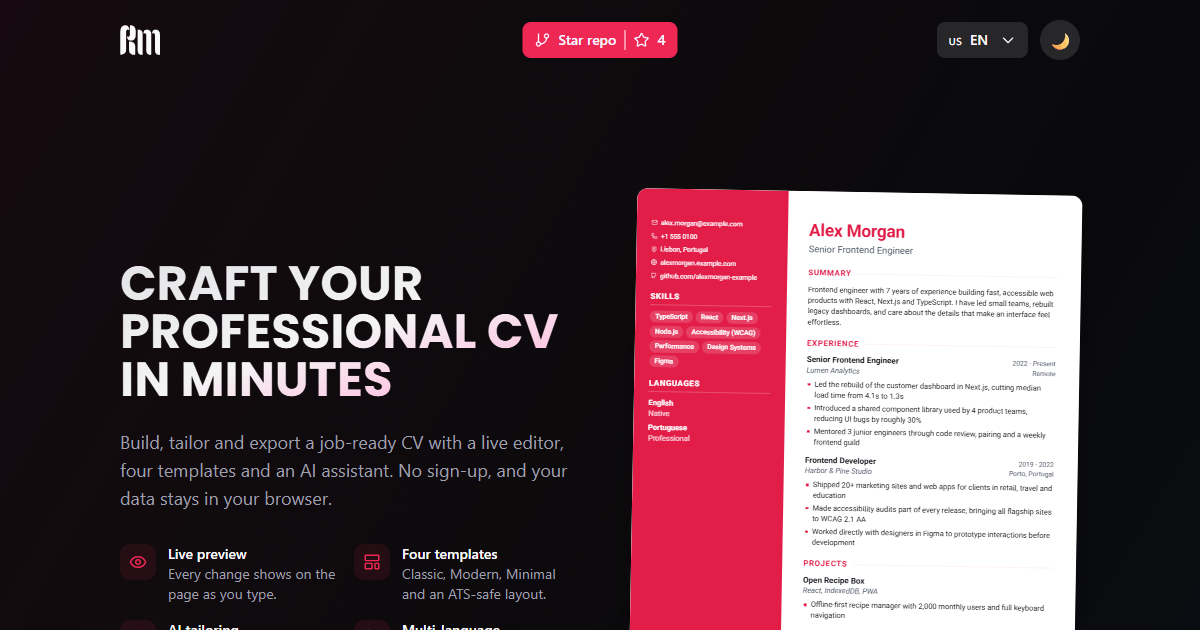
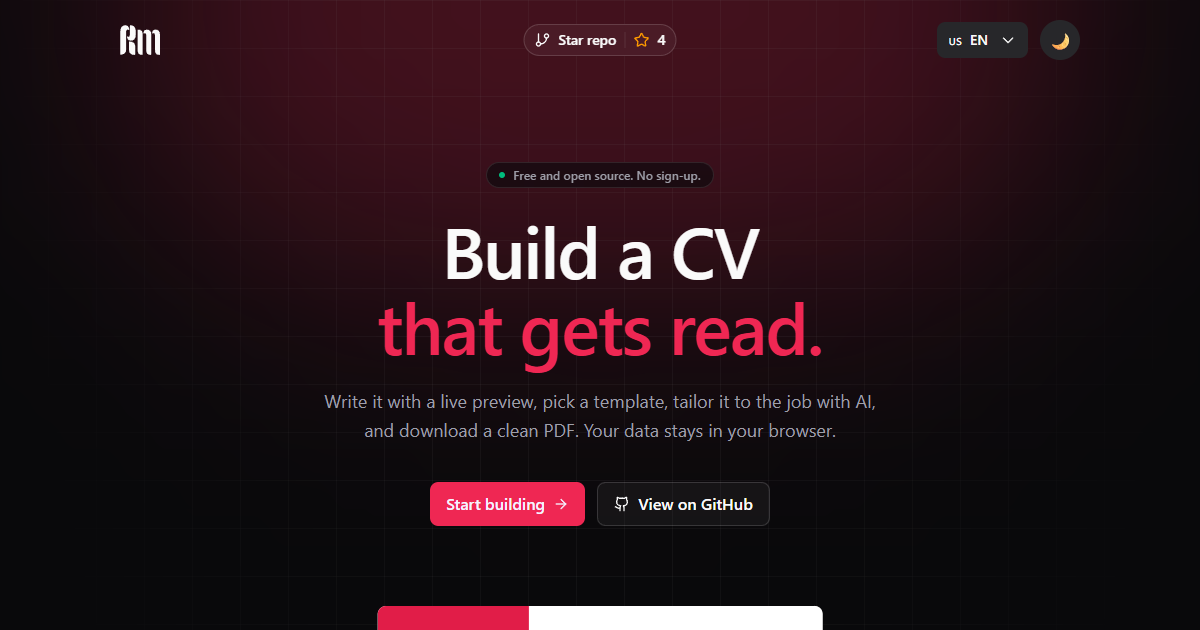
Redesign the landing page
- Centred hero with a short two-part headline instead of the uppercase
  gradient title, plus a GitHub button and a small badge line
- Fan of real Classic, Modern and Minimal documents as the hero image,
  clipped and faded, replacing the single tiny tilted preview
- Simple four-column feature row, soft glow and grid background
- Calmer outline "Star repo" button in the navbar
- Fix: CV sheets are at least one page tall on screen, so the Modern
  sidebar reaches the bottom of the page in the preview and hero

diff --git a/src/app/Landing.tsx b/src/app/Landing.tsx
@@ -1,47 +1,61 @@
 "use client";
 
 import React, { useMemo } from "react";
-import { motion, Variants } from "framer-motion";
-import { Poppins } from "next/font/google";
-import { Eye, Languages, LayoutTemplate, Sparkles } from "lucide-react";
+import { motion } from "framer-motion";
+import { ArrowRight, Eye, Github, Languages, LayoutTemplate, Sparkles } from "lucide-react";
 import { useLang } from "@/lib/lang";
 import translations from "@/lib/translations";
 import { Button } from "@/components/ui/button";
 import CVDocument from "@/components/cv-maker/document/CVDocument";
 import { sampleCV } from "@/lib/cv/defaults";
+import { CVData, TemplateId } from "@/types/cv";
+import { cn } from "@/lib/utils";
 
-const poppins = Poppins({
-	subsets: ["latin"],
-	weight: ["600", "700"],
-	variable: "--font-poppins",
-});
-
-const containerVariants: Variants = {
-	hidden: { opacity: 0 },
-	show: { opacity: 1, transition: { staggerChildren: 0.12, delayChildren: 0.1 } },
-};
-
-const itemVariants: Variants = {
-	hidden: { opacity: 0, y: 16 },
-	show: { opacity: 1, y: 0, transition: { duration: 0.5, ease: "easeOut" } },
-};
-
-// A4 at 96dpi, scaled down for the hero.
-const SHEET_W = 794;
+const SHEET_W = 794; // A4 at 96dpi
 const SHEET_H = 1123;
-const HERO_SCALE = 0.56;
+
+const variant = (template: TemplateId, accentColor: string): CVData => {
+	const cv = sampleCV();
+	cv.settings.template = template;
+	cv.settings.accentColor = accentColor;
+	return cv;
+};
+
+/** A real CVDocument, scaled down. `--s` is the scale, set per breakpoint by the caller. */
+function Sheet({ cv, className }: { cv: CVData; className?: string }) {
+	return (
+		<div
+			className={cn(
+				"overflow-hidden rounded-md bg-white shadow-[0_30px_80px_-20px_rgb(0_0_0/0.45)] ring-1 ring-black/10",
+				className,
+			)}
+			style={{
+				width: `calc(${SHEET_W}px * var(--s))`,
+				height: `calc(${SHEET_H}px * var(--s))`,
+			}}>
+			<div
+				className="pointer-events-none origin-top-left select-none"
+				style={{ width: SHEET_W, transform: "scale(var(--s))" }}
+				dir="ltr">
+				<CVDocument cv={cv} />
+			</div>
+		</div>
+	);
+}
 
 export default function LandingHero() {
 	const { lang } = useLang();
 	const t = translations[lang];
 	const isRtl = lang === "ar";
 
-	const demo = useMemo(() => {
-		const cv = sampleCV();
-		cv.settings.template = "modern";
-		cv.settings.accentColor = "#e11d48";
-		return cv;
-	}, []);
+	const sheets = useMemo(
+		() => ({
+			classic: variant("classic", "#2563eb"),
+			modern: variant("modern", "#e11d48"),
+			minimal: variant("minimal", "#0f766e"),
+		}),
+		[],
+	);
 
 	const features = [
 		{ icon: Eye, title: t.feature1Title, desc: t.feature1Desc },
@@ -53,65 +67,87 @@ export default function LandingHero() {
 	const start = () =>
 		document.getElementById("cvMaker")?.scrollIntoView({ behavior: "smooth", block: "start" });
 
+	const fadeUp = (delay: number) => ({
+		initial: { opacity: 0, y: 14 },
+		animate: { opacity: 1, y: 0 },
+		transition: { duration: 0.5, ease: "easeOut" as const, delay },
+	});
+
 	return (
-		<div className="pt-20 lg:pt-24" dir={isRtl ? "rtl" : "ltr"}>
-			<div className="container mx-auto px-6 py-16 lg:px-8 lg:py-24">
-				<div className="grid items-center gap-14 lg:grid-cols-2">
-					<motion.div
-						className="flex flex-col items-start"
-						variants={containerVariants}
-						initial="hidden"
-						animate="show">
-						<motion.h1
-							variants={itemVariants}
-							className={`${poppins.className} max-w-2xl bg-gradient-to-br from-zinc-900 via-indigo-800 to-pink-500 bg-clip-text text-4xl font-extrabold uppercase text-transparent drop-shadow-sm sm:text-5xl dark:from-zinc-200 dark:via-zinc-100 dark:to-pink-300`}>
-							{t.landingTitle}
-						</motion.h1>
+		<section className="relative isolate overflow-hidden" dir={isRtl ? "rtl" : "ltr"}>
+			{/* Soft glow and a faint grid behind the headline. */}
+			<div aria-hidden className="pointer-events-none absolute inset-0 -z-10">
+				<div className="absolute left-1/2 top-[-18rem] h-[36rem] w-[60rem] -translate-x-1/2 rounded-full bg-primary/20 blur-[120px] dark:bg-primary/25" />
+				<div className="absolute inset-0 bg-[linear-gradient(to_right,rgb(127_127_127/0.08)_1px,transparent_1px),linear-gradient(to_bottom,rgb(127_127_127/0.08)_1px,transparent_1px)] bg-[size:48px_48px] [mask-image:radial-gradient(ellipse_at_top,black_30%,transparent_70%)]" />
+			</div>
 
-						<motion.p variants={itemVariants} className="mt-6 max-w-xl text-lg text-muted-foreground">
-							{t.landingSubtitle}
-						</motion.p>
+			<div className="mx-auto max-w-6xl px-6 pt-32 sm:pt-40">
+				<div className="mx-auto max-w-3xl text-center">
+					<motion.p
+						{...fadeUp(0)}
+						className="mx-auto inline-flex items-center gap-2 rounded-full border bg-background/60 px-3 py-1 text-xs font-medium text-muted-foreground backdrop-blur">
+						<span className="size-1.5 rounded-full bg-emerald-500" />
+						{t.landingBadge}
+					</motion.p>
 
-						<motion.ul variants={containerVariants} className="mt-8 grid gap-4 sm:grid-cols-2">
-							{features.map(({ icon: Icon, title, desc }) => (
-								<motion.li key={title} variants={itemVariants} className="flex gap-3">
-									<span className="flex size-9 shrink-0 items-center justify-center rounded-lg bg-primary/10 text-primary">
-										<Icon className="size-4.5" />
-									</span>
-									<span>
-										<span className="block text-sm font-semibold">{title}</span>
-										<span className="block text-sm text-muted-foreground">{desc}</span>
-									</span>
-								</motion.li>
-							))}
-						</motion.ul>
+					<motion.h1
+						{...fadeUp(0.05)}
+						className="mt-6 text-5xl font-semibold leading-[1.05] tracking-tight text-balance sm:text-7xl">
+						{t.landingTitleA}{" "}
+						<span className="text-primary">{t.landingTitleB}</span>
+					</motion.h1>
 
-						<motion.div variants={itemVariants}>
-							<Button className="mt-8" size="lg" onClick={start}>
-								{t.landingCta}
-							</Button>
-						</motion.div>
-					</motion.div>
+					<motion.p
+						{...fadeUp(0.1)}
+						className="mx-auto mt-6 max-w-xl text-lg leading-relaxed text-muted-foreground text-pretty">
+						{t.landingSubtitle}
+					</motion.p>
 
 					<motion.div
-						className="hidden justify-center sm:flex"
-						initial={{ opacity: 0, y: 24 }}
-						animate={{ opacity: 1, y: 0 }}
-						transition={{ duration: 0.7, ease: "easeOut", delay: 0.2 }}
-						aria-hidden>
-						<div
-							className="relative overflow-hidden rounded-lg bg-white shadow-2xl ring-1 ring-black/5 lg:rotate-1"
-							style={{ width: SHEET_W * HERO_SCALE, height: SHEET_H * HERO_SCALE }}>
-							<div
-								className="pointer-events-none origin-top-left select-none"
-								style={{ width: SHEET_W, transform: `scale(${HERO_SCALE})` }}
-								dir="ltr">
-								<CVDocument cv={demo} />
-							</div>
-						</div>
+						{...fadeUp(0.15)}
+						className="mt-9 flex flex-wrap items-center justify-center gap-3">
+						<Button size="lg" onClick={start} className="h-11 px-6 text-base">
+							{t.landingCta}
+							<ArrowRight className="rtl:rotate-180" />
+						</Button>
+						<Button asChild size="lg" variant="outline" className="h-11 px-6 text-base">
+							<a href="https://github.com/RamiMizyed/cv-maker" target="_blank" rel="noopener noreferrer">
+								<Github /> {t.landingGithub}
+							</a>
+						</Button>
 					</motion.div>
 				</div>
+
+				{/* Template fan: three real documents, cropped and faded at the bottom. */}
+				<motion.div
+					initial={{ opacity: 0, y: 40 }}
+					animate={{ opacity: 1, y: 0 }}
+					transition={{ duration: 0.8, ease: "easeOut", delay: 0.25 }}
+					aria-hidden
+					dir="ltr"
+					className="relative mx-auto mt-16 h-[300px] overflow-hidden [--s:0.38] sm:mt-20 sm:h-[440px] sm:[--s:0.5] lg:h-[500px] lg:[--s:0.56]">
+					<div className="absolute left-1/2 top-10 hidden -translate-x-[112%] -rotate-6 opacity-90 sm:block">
+						<Sheet cv={sheets.classic} />
+					</div>
+					<div className="absolute left-1/2 top-10 hidden translate-x-[12%] rotate-6 opacity-90 sm:block">
+						<Sheet cv={sheets.minimal} />
+					</div>
+					<div className="absolute left-1/2 top-0 -translate-x-1/2">
+						<Sheet cv={sheets.modern} />
+					</div>
+					<div className="absolute inset-x-0 bottom-0 h-48 bg-gradient-to-b from-transparent to-background" />
+				</motion.div>
+
+				<div className="relative grid gap-8 border-t py-14 sm:grid-cols-2 lg:grid-cols-4">
+					{features.map(({ icon: Icon, title, desc }) => (
+						<div key={title}>
+							<Icon className="size-5 text-primary" />
+							<h3 className="mt-3 font-semibold">{title}</h3>
+							<p className="mt-1 text-sm leading-relaxed text-muted-foreground">{desc}</p>
+						</div>
+					))}
+				</div>
 			</div>
-		</div>
+		</section>
 	);
 }

diff --git a/src/lib/translations.ts b/src/lib/translations.ts
@@ -1,8 +1,11 @@
 const en = {
 	// Landing page
-	landingTitle: "Craft Your Professional CV in Minutes",
+	landingBadge: "Free and open source. No sign-up.",
+	landingTitleA: "Build a CV",
+	landingTitleB: "that gets read.",
+	landingGithub: "View on GitHub",
 	landingSubtitle:
-		"Build, tailor and export a job-ready CV with a live editor, four templates and an AI assistant. No sign-up, and your data stays in your browser.",
+		"Write it with a live preview, pick a template, tailor it to the job with AI, and download a clean PDF. Your data stays in your browser.",
 	landingCta: "Start building",
 	feature1Title: "Live preview",
 	feature1Desc: "Every change shows on the page as you type.",
@@ -187,7 +190,10 @@ const en = {
 export type Translation = typeof en;
 
 const tr: Translation = {
-	landingTitle: "Profesyonel CV'nizi Dakikalar İçinde Oluşturun",
+	landingBadge: "Ücretsiz ve açık kaynak. Kayıt gerekmez.",
+	landingTitleA: "Okunan bir CV",
+	landingTitleB: "hazırlayın.",
+	landingGithub: "GitHub'da incele",
 	landingSubtitle:
 		"Canlı düzenleyici, dört şablon ve yapay zeka asistanıyla işe hazır bir CV oluşturun, uyarlayın ve dışa aktarın. Kayıt yok, verileriniz tarayıcınızda kalır.",
 	landingCta: "Oluşturmaya başla",
@@ -366,7 +372,10 @@ const tr: Translation = {
 };
 
 const ar: Translation = {
-	landingTitle: "صمّم سيرتك الذاتية الاحترافية في دقائق",
+	landingBadge: "مجاني ومفتوح المصدر. بلا تسجيل.",
+	landingTitleA: "اصنع سيرة ذاتية",
+	landingTitleB: "تُقرأ فعلًا.",
+	landingGithub: "عرض على GitHub",
 	landingSubtitle:
 		"أنشئ سيرة ذاتية جاهزة للعمل وخصّصها وصدّرها باستخدام محرر مباشر وأربعة قوالب ومساعد ذكاء اصطناعي. بلا تسجيل، وبياناتك تبقى في متصفحك.",
 	landingCta: "ابدأ الآن",

diff --git a/src/components/cv-maker/document/cv-document.css b/src/components/cv-maker/document/cv-document.css
@@ -16,7 +16,9 @@
 	--cv-pad-y: 14mm;
 
 	width: var(--cv-page-w);
-	min-height: 100%;
+	/* On screen the sheet is at least one full page, so the Modern sidebar runs to the bottom.
+	   In print the page box handles this and a forced height could add a blank page. */
+	min-height: var(--cv-page-h);
 	background: #fff;
 	color: var(--cv-ink);
 	font-size: var(--cv-fs);
@@ -428,7 +430,7 @@
 .cv-columns {
 	display: grid;
 	grid-template-columns: var(--cv-side-w) 1fr;
-	min-height: inherit;
+	min-height: var(--cv-page-h);
 	position: relative;
 }
 
@@ -525,6 +527,10 @@
 /* ---------- print ---------- */
 
 @media print {
+	.cv {
+		min-height: 0;
+	}
+
 	/* The sidebar colour is drawn by a fixed element, which the browser repeats on
 	   every page, so the stripe runs the full height of page 2 and beyond. */
 	.cv-tpl-modern .cv-side-bg {
@@ -540,6 +546,10 @@
 
 	.cv-tpl-modern .cv-side {
 		background: transparent;
+	}
+
+	.cv-columns {
+		min-height: 0;
 	}
 
 	.cv a {

diff --git a/src/components/ui/navBar.tsx b/src/components/ui/navBar.tsx
@@ -104,14 +104,16 @@ const NavBar = () => {
 				{/* Centered GitHub star button */}
 				<div className="absolute left-1/2 top-1/2 -translate-x-1/2 -translate-y-1/2 hidden sm:block">
 					<Button
-						className="flex items-center gap-2"
+						variant="outline"
+						size="sm"
+						className="flex items-center gap-2 rounded-full bg-background/50 backdrop-blur"
 						onClick={() => window.open(`https://github.com/${repo}`, "_blank")}
 						disabled={starsLoading}
 						title={`Star ${repo} on GitHub`}>
 						<GitBranch />
 						<span>Star repo</span>
-						<div className="w-[1px] h-full bg-white"></div>
-						<Star className=" h-4 w-4" />
+						<div className="h-4 w-px bg-border"></div>
+						<Star className="h-4 w-4 text-amber-500" />
 						<span className=" text-sm ">
 							{starCount !== null
 								? new Intl.NumberFormat().format(starCount)

diff --git a/src/components/cv-maker/document/CVDocument.tsx b/src/components/cv-maker/document/CVDocument.tsx
@@ -347,6 +347,7 @@ export default function CVDocument({ cv }: { cv: CVData }) {
 		"--cv-fs": `${settings.fontSize}pt`,
 		"--cv-gap": SPACING[settings.spacing],
 		"--cv-page-w": PAGE_SIZE[settings.pageFormat].width,
+		"--cv-page-h": PAGE_SIZE[settings.pageFormat].height,
 		fontFamily: `"${settings.font}", ${rtl ? '"Amiri", ' : ""}system-ui, sans-serif`,
 	} as React.CSSProperties;
 
@@ -381,6 +382,7 @@ export function LetterDocument({ cv, body }: { cv: CVData; body: string }) {
 		"--cv-fs": `${Math.max(settings.fontSize, 10.5)}pt`,
 		"--cv-gap": 1,
 		"--cv-page-w": PAGE_SIZE[settings.pageFormat].width,
+		"--cv-page-h": PAGE_SIZE[settings.pageFormat].height,
 		fontFamily: `"${settings.font}", ${rtl ? '"Amiri", ' : ""}system-ui, sans-serif`,
 	} as React.CSSProperties;
 

diff --git a/src/app/page.tsx b/src/app/page.tsx
@@ -6,7 +6,7 @@ import Loading from "@/components/ui/loader";
 
 export default function Home() {
 	return (
-		<main className="bg-gradient-to-br min-h-screen from-orange-100 via-background to-sky-200 dark:from-rose-900/10 dark:via-background dark:to-sky-900/20	">
+		<main className="min-h-screen bg-background">
 			<Loading />
 			<LandingHero />
 			<CVMaker />
